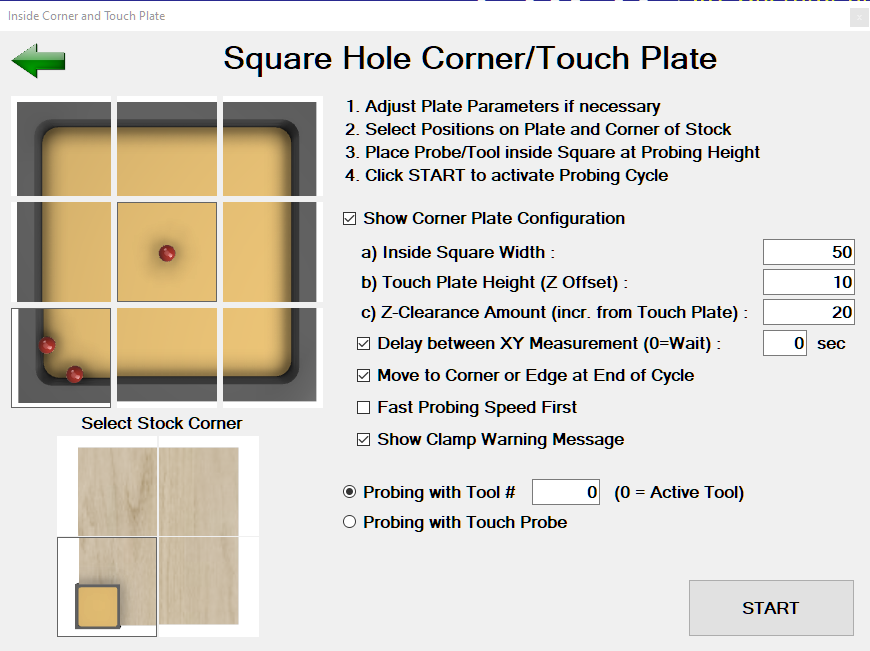
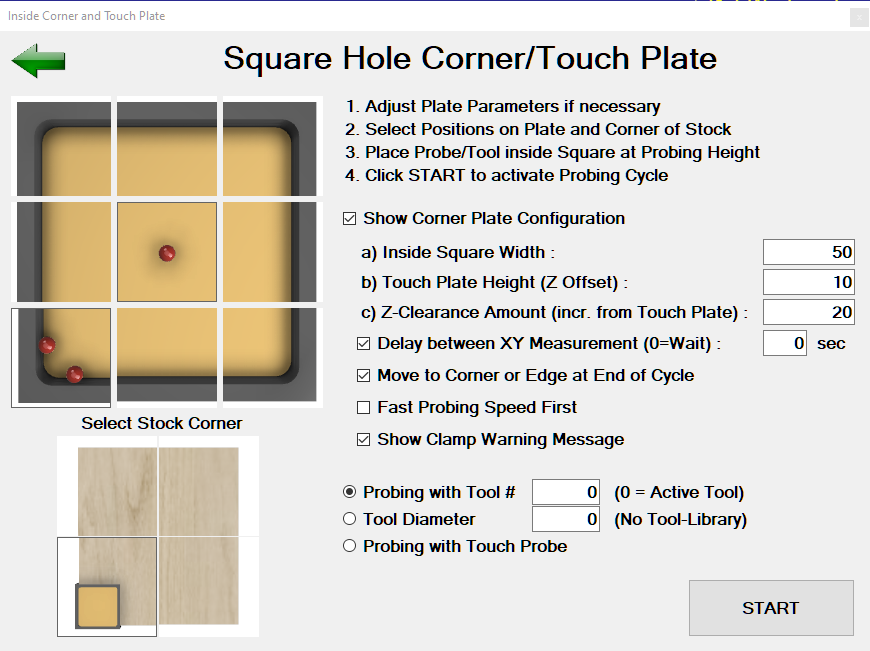
Doc Update

Changed region(s): [[0.4034, 0.768, 0.869, 0.8602]]

diff --git a/docs/InCorPlate.md b/docs/InCorPlate.md
@@ -92,15 +92,23 @@ The *Clamp Warning Message* can be customized. See [Configuration Options](confi
 
 ## Probing with Tool or Touch Probe
 
-![](/images/pa044.PNG)
+![](/images/pa061.PNG)
 
 Probing cycles can be made with a tool or a Touch Probe.
-Because the contact point of the tool/probe that triggers the touch off signal at the plate for a X/Y measurement is the outside of the tool/probe, the probing cycle needs to know the exact diameter of the tool/probe to calculate the center point.
 
 If *Probing with Touch Probe* is selected, the Touch Probe needs to be setup and configured properly in the CNC12 Wizard as the probing cycle will depend on the CNC12 probing parameters.
 
-If *Probing with Tool #* is selected, it is IMPORTANT that the tool diameter of the selected tool is properly configured in the CNC12 Offset Library for X/Y measurements. 
-So if Tool # 6 has been choosen that has a diameter of 4mm, the CNC12 Offset Library MUST be configured like this:
+When probing with a Tool, there are two options:
+
+### Tool Diameter 
+If you don't use the CNC12 Tool Libary and your G-Code is written/generated without Tool Diameter compensation, you can select this option. 
+
+If only a Z-Measurment is selected without a side or corner, no diameter value needs to be entered. For corner and side measurements, the Tool-Diameter is needed to calculate the corner or side position.
+
+### Probing with Tool #
+Here it is IMPORTANT that the tool diameter of the selected tool is properly configured in the CNC12 Offset Library for X/Y measurements. 
+
+As an example, if Tool # 6 has been choosen that has a diameter of 4mm, the CNC12 Offset Library MUST be configured like this:
 
 ![](/images/pa049.PNG)
 
